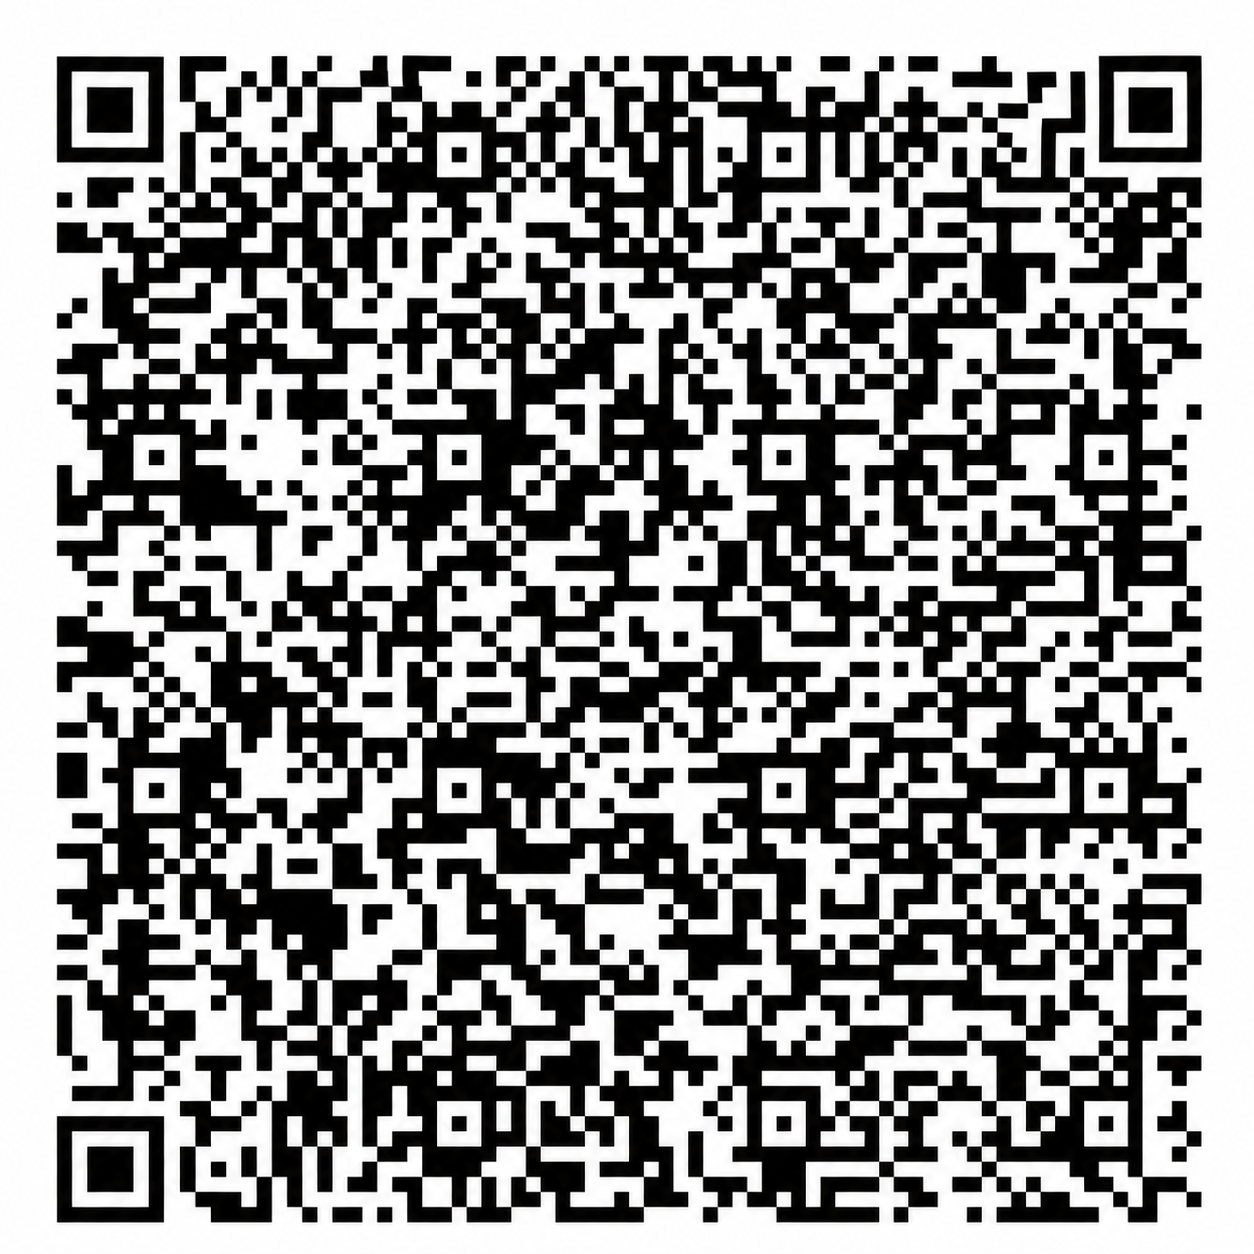
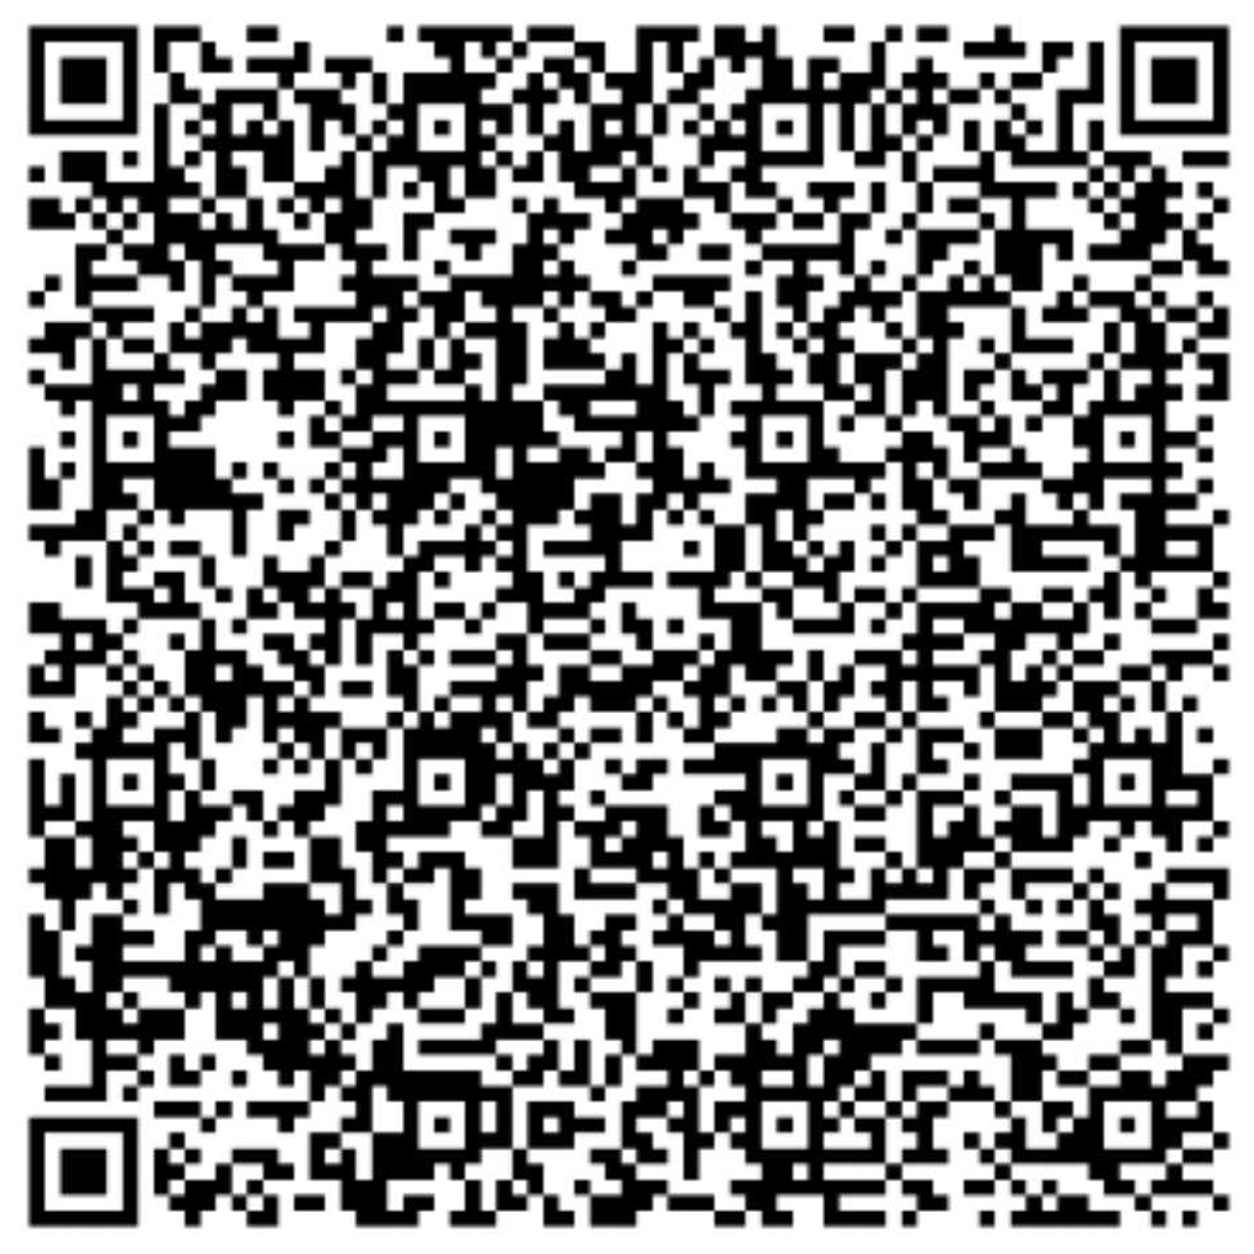
Update WorkDigie QRIS source

diff --git a/payment.html b/payment.html
@@ -12,7 +12,7 @@
 <body><div id="app"></div>
 <script src="assets/vendor/qrcode.min.js?v=2"></script><script src="qris.js?v=16"></script>
 <script>
-const STATIC_QRIS='00020101021126570011ID.DANA.WWW011893600915303270621302090327062130303UMI51440014ID.CO.QRIS.WWW0215ID10265345984810303UMI5204481453033605802ID5909WorkDigie6014Kota Palembang61053025263041ABE';
+const STATIC_QRIS='00020101021126570011ID.DANA.WWW011893600915303270621302090327062130303UMI51440014ID.CO.QRIS.WWW0215ID10265345984810303UMI5204481453033605802ID5922Maju teknologi digital6015Kota Jakarta Pu61051012063042129';
 const esc=v=>String(v??'').replace(/[&<>"']/g,c=>({'&':'&amp;','<':'&lt;','>':'&gt;','"':'&quot;',"'":'&#039;'}[c])); const money=v=>new Intl.NumberFormat('id-ID',{style:'currency',currency:'IDR',maximumFractionDigits:0}).format(Number(v||0));
 const saved=JSON.parse(sessionStorage.getItem('workdigie_payment')||'null'); const app=document.querySelector('#app');
 if(!saved?.order){app.innerHTML='<div class="error"><h1>Data pembayaran tidak ditemukan</h1><p>Buka kembali pesanan dari akun WorkDigie.</p><a href="/">Kembali ke toko</a></div>';}else{const {order,customer}=saved;const deadline=new Date(order.expiresAt||Date.now()+1800000);const items=(order.items||[]).map(x=>`${esc(x.title||x.id)} × ${Number(x.quantity||1)}`).join('<br>');app.innerHTML=`<main class="pay-layout"><section class="pay-main"><header class="pay-brand"><img src="assets/workdigie-wordmark.png" alt="WorkDigie"></header><a class="back" href="/">Kembali ke toko</a><p class="deadline">BAYAR SEBELUM ${deadline.toLocaleString('id-ID',{day:'numeric',month:'long',year:'numeric',hour:'2-digit',minute:'2-digit'}).toUpperCase()}</p><h1 class="amount">${money(order.total)}</h1><div class="method-title">METODE PEMBAYARAN</div><article class="method"><div class="method-head"><span>▦</span><b>Pembayaran QRIS</b><span>⌃</span></div><div class="fraud"><b>Lindungi Diri dari Penipuan</b><span>Pastikan nama merchant, nominal, dan detail pesanan sudah benar sebelum melakukan pembayaran.</span></div><p class="qr-intro">Kami menerima QRIS dari seluruh bank dan e-wallet yang mendukung QRIS</p><div class="qr-card"><div class="qris-word">QRIS</div><div id="qr"></div><small>NMID: ID1026534598481</small></div></article><div class="powered">POWERED BY WORKDIGIE</div></section><aside class="summary"><h1>Ringkasan Pesanan</h1><p>Invoice #: ${esc(order.id)}</p><div class="summary-row"><span>Deskripsi</span><b>${items}</b></div><div class="summary-row"><span>Batas pembayaran</span><b>${deadline.toLocaleString('id-ID')}</b></div><div class="total"><span>Total Tagihan</span><b>${money(order.total)}</b></div><button class="confirm" id="confirm">Saya sudah membayar</button><div class="notice" id="notice"></div><p style="font-size:11px;color:#748092;line-height:1.6">Setelah diverifikasi, detail produk dikirim ke WhatsApp ${esc(customer?.whatsapp||'')}.</p></aside></main>`;new QRCode(document.querySelector('#qr'),{text:QrisTools.dynamic(STATIC_QRIS,Number(order.total)),width:218,height:218,correctLevel:QRCode.CorrectLevel.M});document.querySelector('#confirm').onclick=async e=>{e.currentTarget.disabled=true;e.currentTarget.textContent='Memeriksa pembayaran...';const n=document.querySelector('#notice');try{const r=await fetch(`/api/orders/${encodeURIComponent(order.id)}/confirm`,{method:'POST',headers:{'Content-Type':'application/json','X-WorkDigie-Request':'1'},body:'{}'});const data=await r.json();if(!r.ok)throw new Error(data.error||'Konfirmasi gagal.');n.textContent=data.message||'Pembayaran masuk antrean verifikasi tim WorkDigie.';n.classList.add('show');e.currentTarget.textContent='Konfirmasi terkirim';}catch(err){n.textContent=err.message;n.classList.add('show');e.currentTarget.disabled=false;e.currentTarget.textContent='Coba konfirmasi lagi';}};}

diff --git a/script.js b/script.js
@@ -1,7 +1,7 @@
 const STORE_CONFIG = {
   grokProxyUrl: "/api/ai/chat",
   staticQris:
-    "00020101021126570011ID.DANA.WWW011893600915303270621302090327062130303UMI51440014ID.CO.QRIS.WWW0215ID10265345984810303UMI5204481453033605802ID5909WorkDigie6014Kota Palembang61053025263041ABE",
+    "00020101021126570011ID.DANA.WWW011893600915303270621302090327062130303UMI51440014ID.CO.QRIS.WWW0215ID10265345984810303UMI5204481453033605802ID5922Maju teknologi digital6015Kota Jakarta Pu61051012063042129",
 };
 
 const CHATGPT_PLUS_DESCRIPTION =
